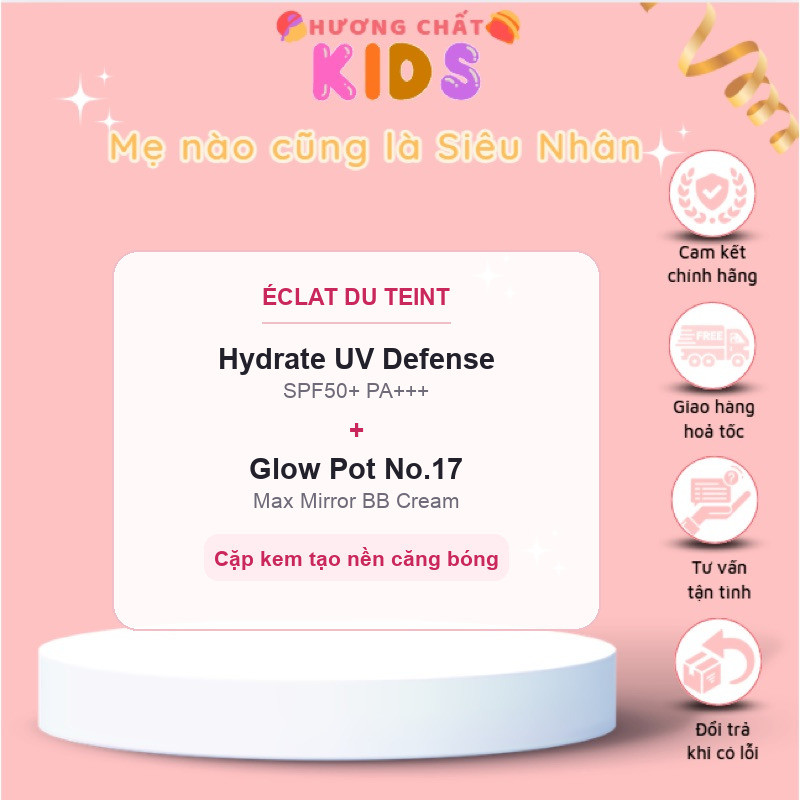
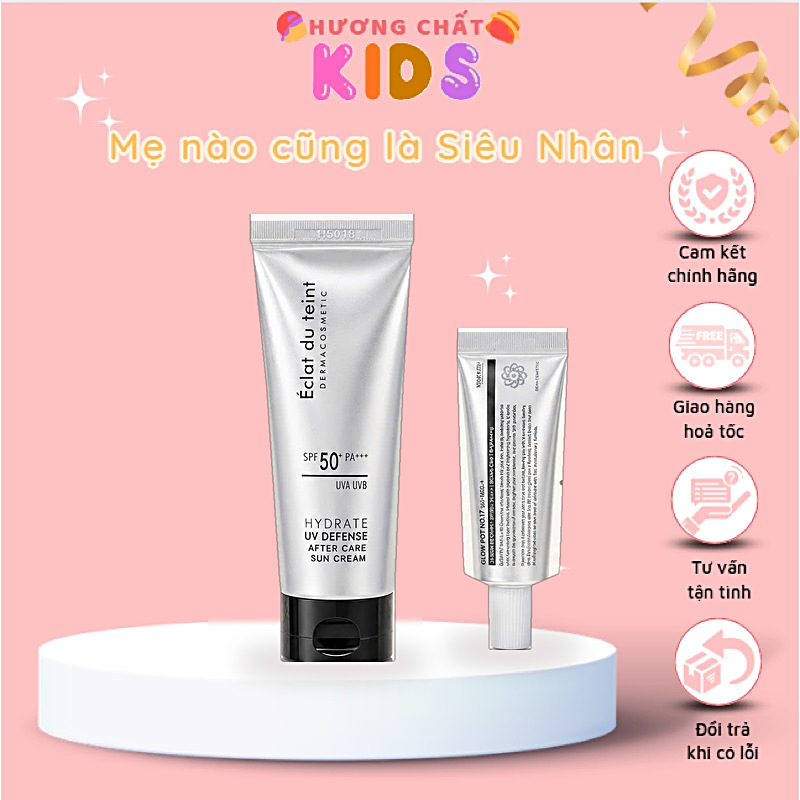
Ảnh thật cho Cặp kem Éclat du Teint: ảnh bìa đồng bộ + 6 ảnh phụ
- Ảnh bìa dựng từ ảnh chủ shop gửi: tách nền 2 tuýp theo dáng đo tay (viền sạch),
  đặt lên phông thương hiệu, bục trưng bày và dải huy hiệu như các sản phẩm khác
- Thay ảnh thẻ chữ tạm trước đây
- Thêm 6 ảnh phụ 800x800 vào trang sản phẩm

diff --git a/checkout.html b/checkout.html
@@ -18,7 +18,7 @@
   <nav class="breadcrumb"><a href="index.html">Trang chủ</a><span>›</span><a href="cart.html">Giỏ hàng</a><span>›</span><span>Thanh toán</span></nav>
   <div id="checkoutPage"></div>
 </div></main>
-<script src="js/data.js?v=20261017d"></script>
+<script src="js/data.js?v=20261017e"></script>
 <script src="js/le-hoi.js?v=20261017c" defer></script>
 <script src="js/diachi.js?v=20261008b"></script>
 <script src="js/qrcode.min.js"></script>

diff --git a/js/data.js b/js/data.js
@@ -289,7 +289,13 @@ window.PRODUCTS = [
     "image": "img/cap-kem-nen.jpg",
     "thumb": "img/thumb/cap-kem-nen.jpg",
     "images": [
-      "img/cap-kem-nen.jpg"
+      "img/cap-kem-nen.jpg",
+      "img/cap-kem-nen-2.jpg",
+      "img/cap-kem-nen-3.jpg",
+      "img/cap-kem-nen-4.jpg",
+      "img/cap-kem-nen-5.jpg",
+      "img/cap-kem-nen-6.jpg",
+      "img/cap-kem-nen-7.jpg"
     ],
     "variants": [
       {

diff --git a/cart.html b/cart.html
@@ -19,7 +19,7 @@
   <h1 class="page-title">Giỏ hàng của mẹ</h1>
   <div class="checkout mt-16" id="cartPage"></div>
 </div></main>
-<script src="js/data.js?v=20261017d"></script>
+<script src="js/data.js?v=20261017e"></script>
 <script src="js/le-hoi.js?v=20261017c" defer></script>
 <script src="js/qrcode.min.js"></script>
 <script src="js/app.js?v=20261017b"></script>

diff --git a/product.html b/product.html
@@ -17,7 +17,7 @@
 <main id="app"><div class="container" id="pdp"></div></main>
 <div class="sticky-buy" id="stickyBuy"></div>
 
-<script src="js/data.js?v=20261017d"></script>
+<script src="js/data.js?v=20261017e"></script>
 <script src="js/le-hoi.js?v=20261017c" defer></script>
 <script src="js/qrcode.min.js"></script>
 <script src="js/app.js?v=20261017b"></script>

diff --git a/quen-mat-khau.html b/quen-mat-khau.html
@@ -14,7 +14,7 @@
 </head>
 <body>
 <main id="app"><div class="container"><div class="qmk" id="qmk"></div></div></main>
-<script src="js/data.js?v=20261017d"></script>
+<script src="js/data.js?v=20261017e"></script>
 <script src="js/le-hoi.js?v=20261017c" defer></script>
 <script src="js/qrcode.min.js"></script>
 <script src="js/app.js?v=20261017b"></script>

diff --git a/admin.html b/admin.html
@@ -42,7 +42,7 @@
 <div class="modal hide" id="modal"></div>
 <div class="toast hide" id="toast"></div>
 
-<script src="js/data.js?v=20261017d"></script>
+<script src="js/data.js?v=20261017e"></script>
 <script src="js/diachi.js?v=20261009c"></script>
 <script src="js/chon-ngay.js?v=20261016b"></script>
 <script src="js/le-hoi.js?v=20261017c"></script>

diff --git a/diem-danh.html b/diem-danh.html
@@ -14,7 +14,7 @@
 </head>
 <body>
 <main id="app"><div class="container ddp" id="ddp"></div></main>
-<script src="js/data.js?v=20261017d"></script>
+<script src="js/data.js?v=20261017e"></script>
 <script src="js/le-hoi.js?v=20261017c" defer></script>
 <script src="js/diachi.js?v=20261008b"></script>
 <script src="js/app.js?v=20261017b"></script>

diff --git a/policy.html b/policy.html
@@ -15,7 +15,7 @@
 </head>
 <body>
 <main id="app"><div class="container" id="policyPage"></div></main>
-<script src="js/data.js?v=20261017d"></script>
+<script src="js/data.js?v=20261017e"></script>
 <script src="js/le-hoi.js?v=20261017c" defer></script>
 <script src="js/policies.js?v=20261008b"></script>
 <script src="js/qrcode.min.js"></script>

diff --git a/vi-voucher.html b/vi-voucher.html
@@ -14,7 +14,7 @@
 </head>
 <body>
 <main id="app"><div class="container vvp" id="vvp"></div></main>
-<script src="js/data.js?v=20261017d"></script>
+<script src="js/data.js?v=20261017e"></script>
 <script src="js/le-hoi.js?v=20261017c" defer></script>
 <script src="js/diachi.js?v=20261008b"></script>
 <script src="js/app.js?v=20261017b"></script>

diff --git a/blog.html b/blog.html
@@ -15,7 +15,7 @@
 </head>
 <body>
 <main id="app"><div class="container" id="blogPage"></div></main>
-<script src="js/data.js?v=20261017d"></script>
+<script src="js/data.js?v=20261017e"></script>
 <script src="js/le-hoi.js?v=20261017c" defer></script>
 <script src="js/qrcode.min.js"></script>
 <script src="js/app.js?v=20261017b"></script>

diff --git a/quan-ly-ton-kho.html b/quan-ly-ton-kho.html
@@ -72,7 +72,7 @@
   <button class="btn btn--primary" type="button" id="save">Lưu lên web</button>
 </div>
 
-<script src="js/data.js?v=20261017d"></script>
+<script src="js/data.js?v=20261017e"></script>
 <script>
 document.addEventListener('DOMContentLoaded', () => {
   const REPO = 'Dohoang2010/huongchatkids', PATH = 'data/stock.json';

diff --git a/account.html b/account.html
@@ -15,7 +15,7 @@
 </head>
 <body>
 <main id="app"><div class="container" id="acc"></div></main>
-<script src="js/data.js?v=20261017d"></script>
+<script src="js/data.js?v=20261017e"></script>
 <script src="js/le-hoi.js?v=20261017c" defer></script>
 <script src="js/diachi.js?v=20261008b"></script>
 <script src="js/qrcode.min.js"></script>
